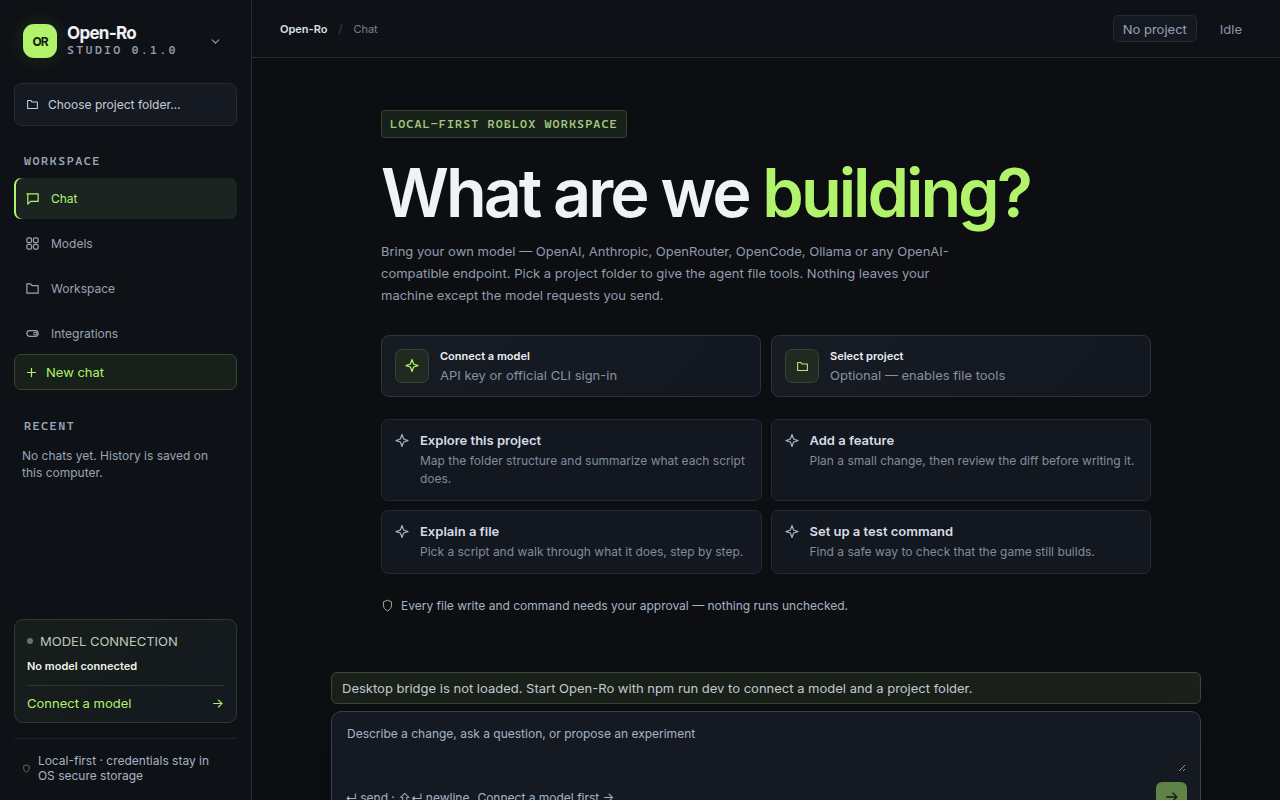
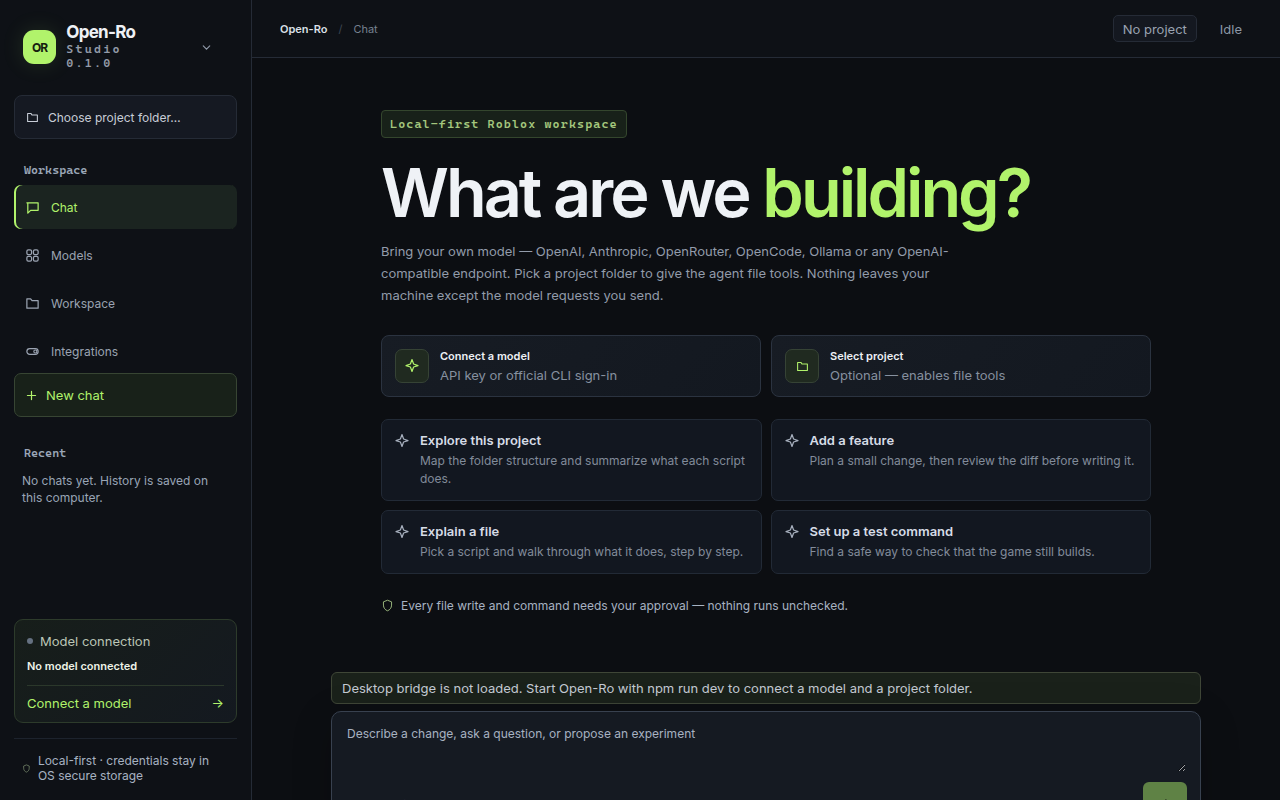
docs: refresh shell screenshots and record rebased main SHAs
The README images were taken before sentence case. Recapture them from
the renderer and point the v4 handoff at the commits that actually landed
on main after the rebase merge.

diff --git a/OMNI_LOOP.md b/OMNI_LOOP.md
@@ -7,7 +7,7 @@
 ## Resume
 
 1. Read this file and `.omni-loop/state.json` before any edit.
-2. `incumbent_commit` is the last commit that does not exist solely to stamp that field. If `HEAD` is one commit ahead and the diff only updates the stamp, continue.
+2. Pull request 1 was rebase-merged, so the pre-merge SHAs are not on main. `incumbent_commit` is `01ccd8ebacd5fa763ef20d5150ac9ed40efac2f6`. If `origin/main` is ahead of that by a screenshot refresh, resume from the tip.
 3. Create tag `omni-loop/iter-6-pre` at the current HEAD, then execute `.omni-loop/current-contract.json` (persist the selected project folder).
 4. Smoke: `npm test`, then `npm run verify:ui` with the renderer on port 5173.
 
